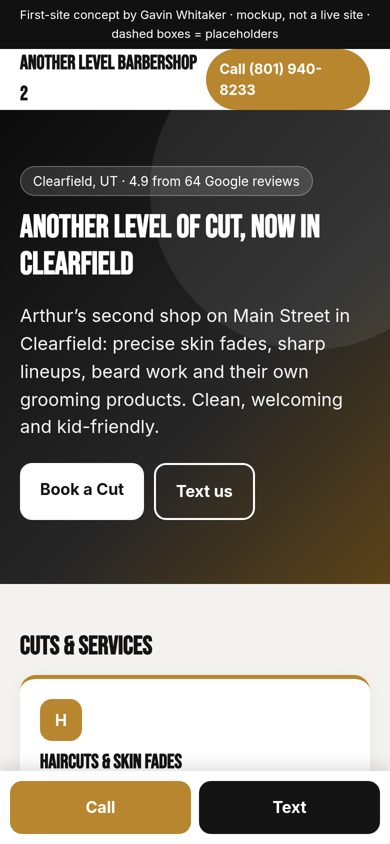
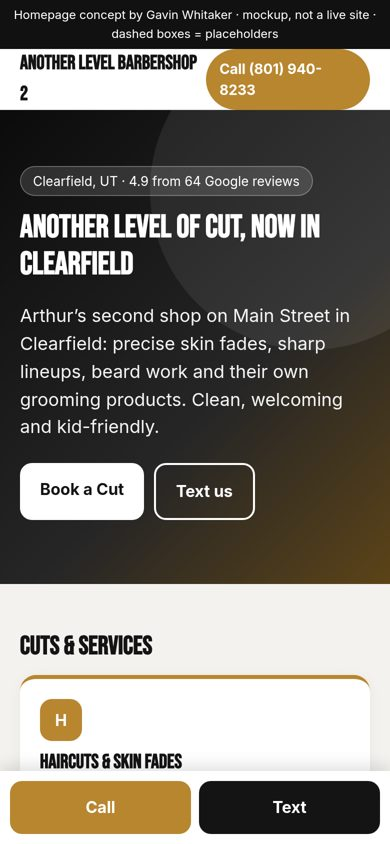
Fix A Nail & Spa names; neutral concept label for Another Level

Changed region(s): [[0.0308, 0.0, 0.9538, 0.0308]]

diff --git a/a-nail-and-spa/index.html b/a-nail-and-spa/index.html
@@ -39,10 +39,10 @@ footer{padding:28px 0;font-size:13px;opacity:.7;text-align:center}
 </style></head><body>
 <div class="mock">First-site concept by Gavin Whitaker &middot; mockup, not a live site &middot; dashed boxes = placeholders</div>
 <header><div class="wrap"><div class="logo">A Nail &amp; Spa</div><a class="hcall" href="tel:+12083801038">Call (208) 380-1038</a></div></header>
-<div class="hero"><div class="wrap"><span class="badge">Preston, ID · 4.8 from 98 Google reviews</span><h1>Nails &amp; pedicures in Preston, 7 days a week</h1><p>A friendly, couple-run nail salon in Preston. Appointments and walk-ins welcome when there is time.</p>
+<div class="hero"><div class="wrap"><span class="badge">Preston, ID · 4.8 from 98 Google reviews</span><h1>Nails &amp; pedicures in Preston, 7 days a week</h1><p>A friendly nail salon in Preston (also listed as Preston Nails &amp; Spa). Appointments, plus walk-ins when there is time.</p>
 <div class="btns"><a class="btn" href="tel:+12083801038">Book an Appointment</a><a class="btn alt" href="sms:+12083801038">Text us</a></div></div></div>
 <section><div class="wrap"><h2>Services</h2><div class="grid"><div class="card"><div class="ic">P</div><h3>Pedicures</h3><p>With foot and leg massage. [prices: PLACEHOLDER]</p></div><div class="card"><div class="ic">N</div><h3>Nail Sets &amp; Designs</h3><p>Cat-eye and custom designs. [prices: PLACEHOLDER]</p></div><div class="card"><div class="ic">W</div><h3>Walk-ins</h3><p>When the schedule allows.</p></div></div></div></section>
-<section class="trust"><div class="wrap"><h2>Why locals choose A Nail &amp; Spa</h2><ul><li>4.8 stars from 98 Google reviews</li><li>Run by Mina and Tony</li><li>Open 7 days</li><li>Reasonable prices</li></ul></div></section>
+<section class="trust"><div class="wrap"><h2>Why locals choose A Nail &amp; Spa</h2><ul><li>4.8 stars from 98 Google reviews</li><li>Friendly, gentle, artistic staff (per reviews)</li><li>Open 7 days</li><li>Reasonable prices</li></ul></div></section>
 <section><div class="wrap two"><div><h2>What customers say</h2><blockquote>&ldquo;Hands down one of the best pedicures I’ve ever had. The employees are so friendly and the pricing is great.&rdquo;<cite>&mdash; Google review, Feb 2026</cite></blockquote></div><div><h2>See the work</h2><div class="ph">PLACEHOLDER &middot; Nail design photos</div></div></div></section>
 <section><div class="wrap two contact"><div><h2>Visit or call</h2><p>655 S 4th St E, Preston, ID 83263</p><p><a href="tel:+12083801038">(208) 380-1038</a><br><a href="mailto:amyphan192@gmail.com">amyphan192@gmail.com</a></p></div><div><h2>Hours</h2><table><tr><td>Mon – Sat</td><td>9 AM – 7 PM</td></tr><tr><td>Sun</td><td>11 AM – 4 PM</td></tr></table></div></div></section>
 <footer>&copy; A Nail &amp; Spa &middot; Concept mockup<br>Concept designed by Gavin Whitaker &middot; <a href="mailto:gavin.r.whitaker@gmail.com">gavin.r.whitaker@gmail.com</a>&middot; <a href="https://gavin-whitaker.github.io">Portfolio</a></footer>

diff --git a/another-level-barbershop-2/index.html b/another-level-barbershop-2/index.html
@@ -37,7 +37,7 @@ footer{padding:28px 0;font-size:13px;opacity:.7;text-align:center}
 .sticky a{text-align:center;padding:14px;border-radius:12px;font-weight:700;text-decoration:none;background:var(--acc);color:#fff}.sticky a+a{background:var(--ink)}
 @media(min-width:900px){.sticky{display:none}body{padding-bottom:0}.hero{padding:96px 0}}
 </style></head><body>
-<div class="mock">First-site concept by Gavin Whitaker &middot; mockup, not a live site &middot; dashed boxes = placeholders</div>
+<div class="mock">Homepage concept by Gavin Whitaker &middot; mockup, not a live site &middot; dashed boxes = placeholders</div>
 <header><div class="wrap"><div class="logo">Another Level Barbershop 2</div><a class="hcall" href="tel:+18019408233">Call (801) 940-8233</a></div></header>
 <div class="hero"><div class="wrap"><span class="badge">Clearfield, UT · 4.9 from 64 Google reviews</span><h1>Another level of cut, now in Clearfield</h1><p>Arthur’s second shop on Main Street in Clearfield: precise skin fades, sharp lineups, beard work and their own grooming products. Clean, welcoming and kid-friendly.</p>
 <div class="btns"><a class="btn" href="tel:+18019408233">Book a Cut</a><a class="btn alt" href="sms:+18019408233">Text us</a></div></div></div>
